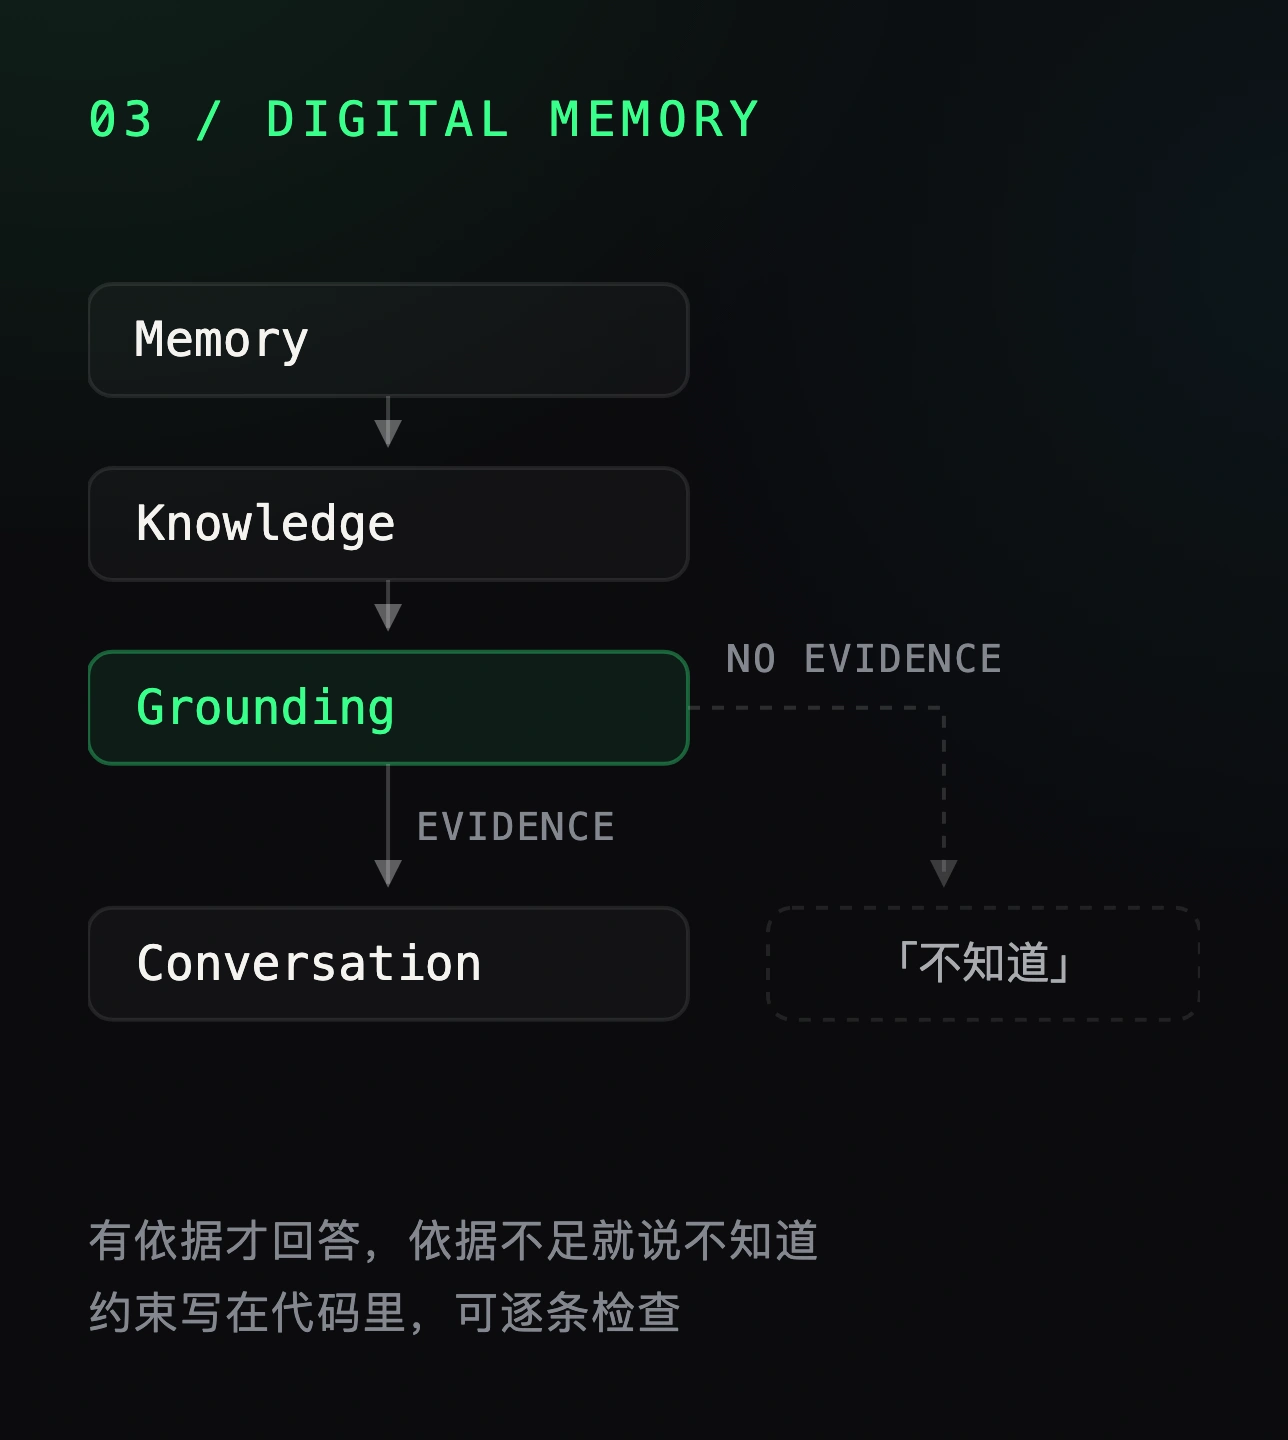
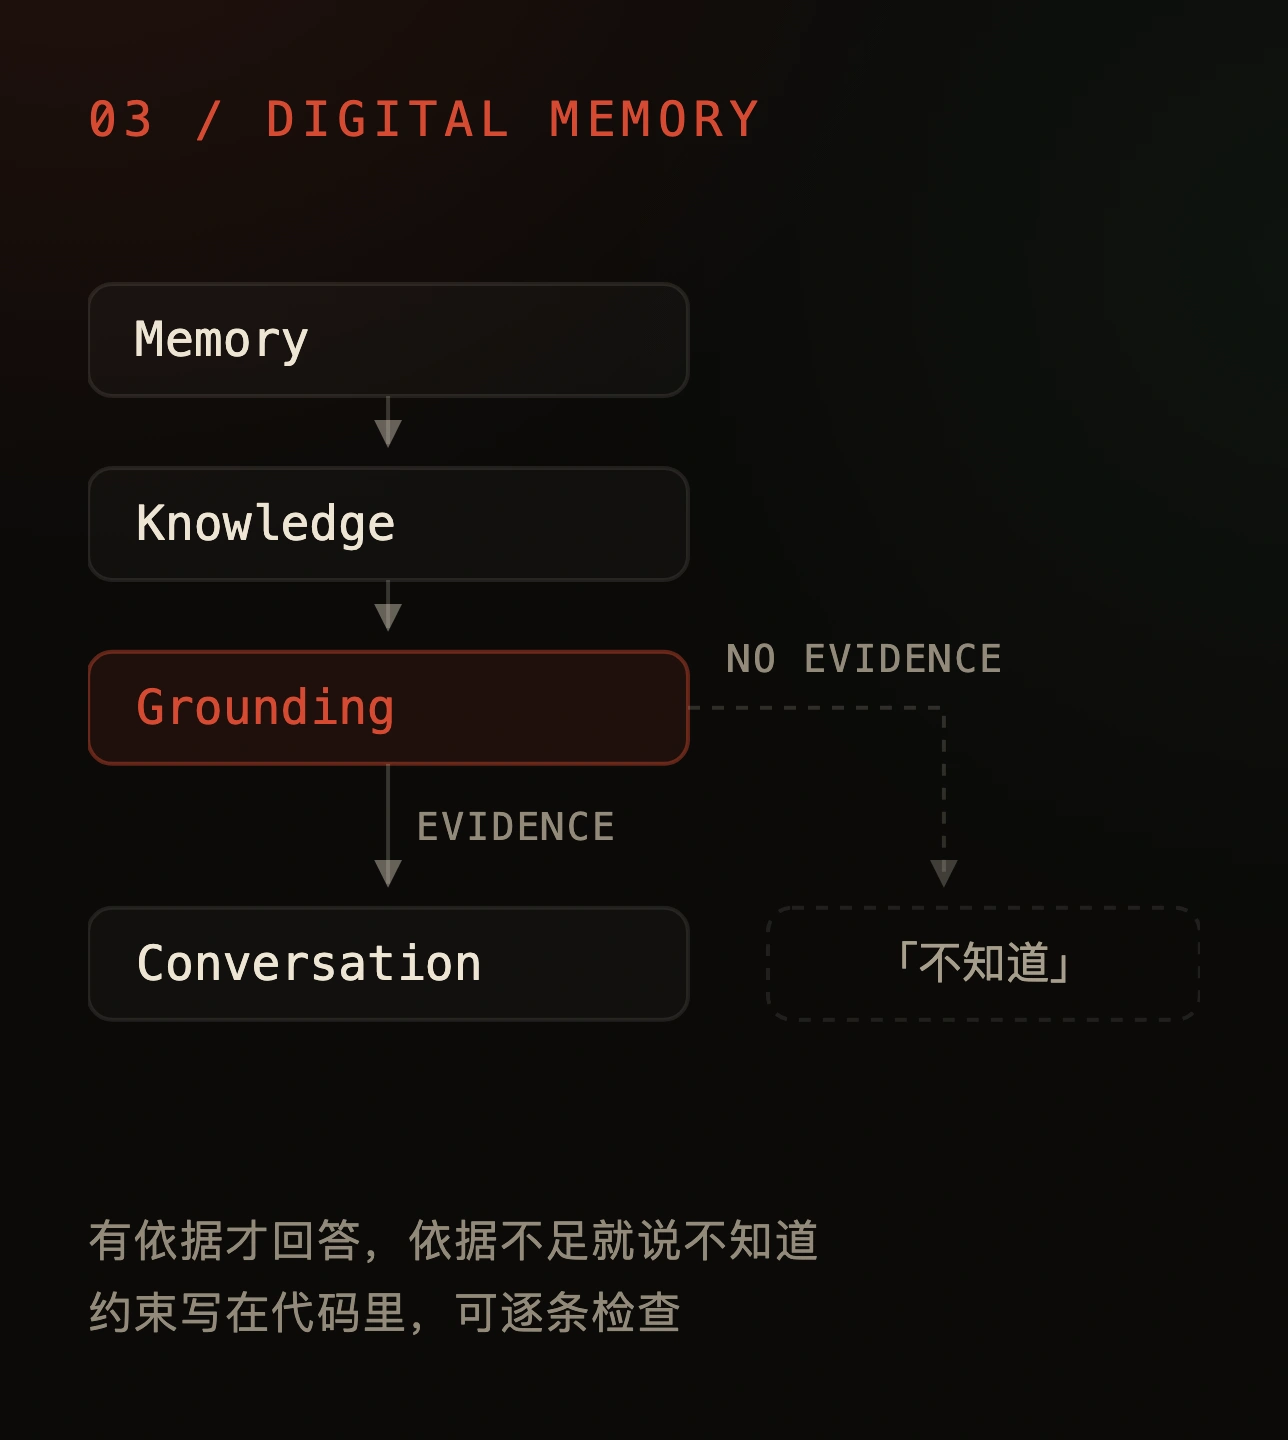
refactor: 结构重排 + 玉兔符号 + 宣纸底履历 + 封面重制
结构：
- 首页顺序调整为 Hero→在做什么→关注→作品→能力→经历→CREW→联系（CREW 下移，真东西上移）
- 履历改宣纸底区块（.paper），制造明暗呼吸
- 导航从 8 项精简为 7 项，去掉重复的「案例」与「AI 工具」

符号：
- 新增玉兔矢量标记 public/rabbit.svg，替换 ASCII 兔，用于首屏/导航/页脚；favicon 同步替换
- tools/covers 配色由旧绿青改为朱砂/青玉/鎏金并重跑 render.ts，六张封面与全站一致

文档：PERSONAL-SITE / ORIENTAL-REDESIGN 同步记录

diff --git a/tools/covers/cover.css b/tools/covers/cover.css
@@ -2,18 +2,18 @@
    数值取自 src/styles/tokens.css，字号按「在页面上 1:1 显示」来定，不做二次缩放。 */
 
 :root {
-  --bg: #0b0b0e;
-  --ink: #f5f3ef;
-  --dim: #a9abb0;
-  /* 4.5:1 是 WCAG AA 对正文级字号的下限；#6b6e74 只有 3.84，Cover 里的说明行
-     和图注是画进位图的，DOM 对比度审计查不到，只能在这里定死。 */
-  --faint: #84878e;
-  --accent: #39ff8b;
-  --cyan: #22d3ee;
-  --amber: #e8b44a;
-  --line: rgba(255, 255, 255, 0.09);
-  --chip: rgba(255, 255, 255, 0.03);
-  --rule: rgba(255, 255, 255, 0.2);
+  --bg: #0b0a08;
+  --ink: #ede4d3;
+  --dim: #a79e8c;
+  /* 4.5:1 是 WCAG AA 对正文级字号的下限；Cover 里的说明行和图注是画进位图的，
+     DOM 对比度审计查不到，只能在这里定死（--faint 对 --bg 约 5.6:1）。 */
+  --faint: #928a7a;
+  --accent: #d64a32;
+  --cyan: #3e8e7e;
+  --amber: #c9a227;
+  --line: rgba(237, 228, 211, 0.1);
+  --chip: rgba(237, 228, 211, 0.03);
+  --rule: rgba(237, 228, 211, 0.2);
   --mono: ui-monospace, SFMono-Regular, Menlo, monospace;
 }
 
@@ -30,8 +30,8 @@ body {
 
 .cover {
   background:
-    radial-gradient(120% 90% at 6% -12%, rgba(57, 255, 139, 0.1), transparent 58%),
-    radial-gradient(90% 80% at 102% 18%, rgba(34, 211, 238, 0.05), transparent 60%), var(--bg);
+    radial-gradient(120% 90% at 6% -12%, rgba(214, 74, 50, 0.12), transparent 58%),
+    radial-gradient(90% 80% at 102% 18%, rgba(62, 142, 126, 0.07), transparent 60%), var(--bg);
   color: var(--ink);
   display: flex;
   flex-direction: column;
@@ -168,8 +168,8 @@ body {
 }
 
 .n-key {
-  fill: rgba(57, 255, 139, 0.07);
-  stroke: rgba(57, 255, 139, 0.34);
+  fill: rgba(214, 74, 50, 0.1);
+  stroke: rgba(214, 74, 50, 0.42);
 }
 
 .n-ghost {
@@ -212,7 +212,7 @@ body {
 
 .ln-ghost {
   fill: none;
-  stroke: rgba(255, 255, 255, 0.14);
+  stroke: rgba(237, 228, 211, 0.16);
   stroke-dasharray: 3 3;
   stroke-width: 1;
 }
@@ -220,7 +220,7 @@ body {
 /* ── 04 的终端面板 ──────────────────────────────────── */
 
 .term {
-  background: rgba(20, 20, 24, 0.86);
+  background: rgba(22, 19, 13, 0.86);
   border: 1px solid var(--line);
   border-radius: 10px;
   display: flex;
@@ -240,7 +240,7 @@ body {
 }
 
 .term-bar b {
-  background: rgba(255, 255, 255, 0.16);
+  background: rgba(237, 228, 211, 0.18);
   border-radius: 50%;
   display: block;
   height: 7px;

diff --git a/tools/covers/03-digital-loved-one.html b/tools/covers/03-digital-loved-one.html
@@ -8,10 +8,10 @@
     <svg width="278" height="233" viewBox="0 0 278 233" xmlns="http://www.w3.org/2000/svg">
       <defs>
         <marker id="a" markerWidth="7" markerHeight="7" refX="6" refY="3.5" orient="auto">
-          <path d="M0 0 L7 3.5 L0 7 z" fill="rgba(255,255,255,0.34)" />
+          <path d="M0 0 L7 3.5 L0 7 z" fill="rgba(237,228,211,0.4)" />
         </marker>
         <marker id="ag" markerWidth="7" markerHeight="7" refX="6" refY="3.5" orient="auto">
-          <path d="M0 0 L7 3.5 L0 7 z" fill="rgba(255,255,255,0.2)" />
+          <path d="M0 0 L7 3.5 L0 7 z" fill="rgba(237,228,211,0.24)" />
         </marker>
       </defs>
 
@@ -24,7 +24,7 @@
       <path class="ln" d="M75 90 V102" marker-end="url(#a)" />
 
       <rect class="n-key" x="0" y="108" width="150" height="28" rx="6" />
-      <text class="t" x="12" y="122" dominant-baseline="central" style="fill: #39ff8b">Grounding</text>
+      <text class="t" x="12" y="122" dominant-baseline="central" style="fill: #D64A32">Grounding</text>
 
       <!-- 有依据：正常回答 -->
       <path class="ln" d="M75 136 V166" marker-end="url(#a)" />

diff --git a/tools/covers/02-ai-music.html b/tools/covers/02-ai-music.html
@@ -8,12 +8,12 @@
     <svg width="278" height="233" viewBox="0 0 278 233" xmlns="http://www.w3.org/2000/svg">
       <defs>
         <marker id="a" markerWidth="7" markerHeight="7" refX="6" refY="3.5" orient="auto">
-          <path d="M0 0 L7 3.5 L0 7 z" fill="rgba(255,255,255,0.34)" />
+          <path d="M0 0 L7 3.5 L0 7 z" fill="rgba(237,228,211,0.4)" />
         </marker>
         <linearGradient id="wave" x1="0" y1="0" x2="1" y2="0">
-          <stop offset="0" stop-color="#39FF8B" stop-opacity="0.35" />
-          <stop offset="0.5" stop-color="#39FF8B" stop-opacity="0.85" />
-          <stop offset="1" stop-color="#22D3EE" stop-opacity="0.5" />
+          <stop offset="0" stop-color="#D64A32" stop-opacity="0.35" />
+          <stop offset="0.5" stop-color="#D64A32" stop-opacity="0.85" />
+          <stop offset="1" stop-color="#3E8E7E" stop-opacity="0.5" />
         </linearGradient>
       </defs>
 

diff --git a/src/components/Hero.css b/src/components/Hero.css
@@ -26,9 +26,21 @@
 }
 
 .brand {
-  display: grid;
+  align-items: center;
+  display: flex;
   font-family: var(--font-display);
   font-weight: 700;
+  gap: var(--s3);
+}
+
+.brand-mark {
+  display: block;
+  height: 26px;
+  width: 26px;
+}
+
+.brand-name {
+  display: grid;
   gap: var(--s1);
 }
 
@@ -133,11 +145,21 @@
 }
 
 .hero-mark {
+  align-items: center;
+  aspect-ratio: 1;
   background: var(--panel);
   border: 1px solid var(--line);
-  border-radius: var(--s4);
+  border-radius: 50%;
   box-shadow: var(--glow);
+  display: grid;
+  justify-items: center;
   padding: var(--s6);
+}
+
+.hero-mark img {
+  display: block;
+  height: auto;
+  width: clamp(110px, 13vw, 170px);
 }
 
 .hero-reveal {

diff --git a/src/components/HackRabbitMark.tsx b/src/components/HackRabbitMark.tsx
@@ -1,17 +1,13 @@
 import './HackRabbitMark.css'
 
 export function HackRabbitMark({ compact = false }: { compact?: boolean }) {
-  // role="img" 才能让读屏软件把整块 ASCII 当一张图读出 aria-label；
-  // 只写 aria-label 的话 <pre> 是 generic role，读屏会逐个念里面的符号。
   return (
-    <pre
+    <img
       className={compact ? 'hackrabbit-mark compact' : 'hackrabbit-mark'}
-      role="img"
-      aria-label="hackrabbit 的 ASCII 兔子标记"
-    >
-{`(\\(\\
-(•ᴥ•)
-/ づ`}
-    </pre>
+      src="/rabbit.svg"
+      alt="黑兔实验室的玉兔标记"
+      width={compact ? 44 : 88}
+      height={compact ? 44 : 88}
+    />
   )
 }

diff --git a/src/components/HackRabbitMark.css b/src/components/HackRabbitMark.css
@@ -1,14 +1,10 @@
-/* ASCII 兔子的 font-size 是图形缩放参数，不是排版层级，
-   所以不走 --fs-* 那套刻度。 */
+/* 玉兔标记：矢量图，尺寸由类控制（原 ASCII 版的 font-size 缩放参数已作废）。 */
 .hackrabbit-mark {
-  color: var(--accent);
-  font-family: var(--font-mono);
-  font-size: clamp(24px, 5vw, 56px);
-  line-height: 1.04;
-  margin: 0;
-  text-shadow: var(--glow);
+  display: block;
+  height: clamp(64px, 8vw, 88px);
+  width: auto;
 }
 
 .hackrabbit-mark.compact {
-  font-size: 18px;
+  height: 44px;
 }

diff --git a/src/styles/tokens.css b/src/styles/tokens.css
@@ -143,6 +143,19 @@ a {
   }
 }
 
+/* 宣纸底区块：在墨黑长页里插一段暖白，制造明暗呼吸（ORIENTAL-REDESIGN.md）。
+   局部反转色板变量，子组件无需改动即可适配。 */
+.paper {
+  --ink: #1c1712;
+  --ink-dim: #5b5142;
+  --line: rgba(28, 23, 18, 0.16);
+  --panel: rgba(255, 255, 255, 0.42);
+  --accent: #b23a2e;
+  --glow: none;
+  background: #ede4d3;
+  color: var(--ink);
+}
+
 @media (prefers-reduced-motion: reduce) {
   html {
     scroll-behavior: auto;

diff --git a/src/components/Work.tsx b/src/components/Work.tsx
@@ -176,7 +176,8 @@ export function Work() {
     <section className="work" id="work">
       <div className="work-heading">
         <p className="eyebrow">作品</p>
-        <h2>作品不是陈列柜,是我怎么判断、分工、验收的证据。</h2>
+        <h2>做过的项目</h2>
+        <p className="work-lead">工作项目按脱敏边界展示过程与判断，个人项目公开代码。</p>
       </div>
 
       <div className="work-list">

diff --git a/tools/covers/01-h5-game-sdk.html b/tools/covers/01-h5-game-sdk.html
@@ -12,7 +12,7 @@
     <svg width="620" height="343" viewBox="0 0 620 343" xmlns="http://www.w3.org/2000/svg">
       <defs>
         <marker id="a" markerWidth="7" markerHeight="7" refX="6" refY="3.5" orient="auto">
-          <path d="M0 0 L7 3.5 L0 7 z" fill="rgba(255,255,255,0.34)" />
+          <path d="M0 0 L7 3.5 L0 7 z" fill="rgba(237,228,211,0.4)" />
         </marker>
       </defs>
 

diff --git a/tools/covers/01m-h5-game-sdk.html b/tools/covers/01m-h5-game-sdk.html
@@ -13,7 +13,7 @@
     <svg width="312" height="320" viewBox="0 0 312 320" xmlns="http://www.w3.org/2000/svg">
       <defs>
         <marker id="a" markerWidth="7" markerHeight="7" refX="6" refY="3.5" orient="auto">
-          <path d="M0 0 L7 3.5 L0 7 z" fill="rgba(255,255,255,0.34)" />
+          <path d="M0 0 L7 3.5 L0 7 z" fill="rgba(237,228,211,0.4)" />
         </marker>
       </defs>
 

diff --git a/src/components/Work.css b/src/components/Work.css
@@ -18,6 +18,14 @@
   text-wrap: balance;
 }
 
+.work-lead {
+  color: var(--ink-dim);
+  font-size: var(--fs-small);
+  line-height: 1.7;
+  margin: var(--s4) 0 0;
+  max-width: 24em;
+}
+
 /* 项目与项目之间是全站最大的间距 —— 每个项目要能当成独立一页读，
    而不是一串卡片。这条比「进入 Selected Work」的 160 还要大。 */
 .work-list {

diff --git a/src/components/Experience.tsx b/src/components/Experience.tsx
@@ -46,7 +46,7 @@ export function Experience() {
   }, [])
 
   return (
-    <section className="experience" id="experience">
+    <section className="experience paper" id="experience">
       <div className="section-kicker">
         <p className="eyebrow">经历</p>
         <h2>工作经历</h2>
